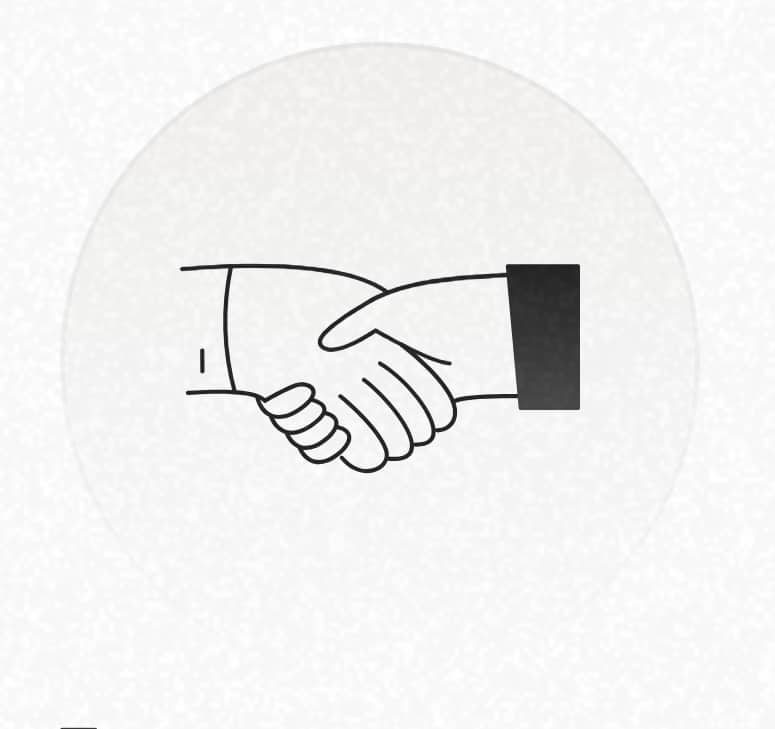
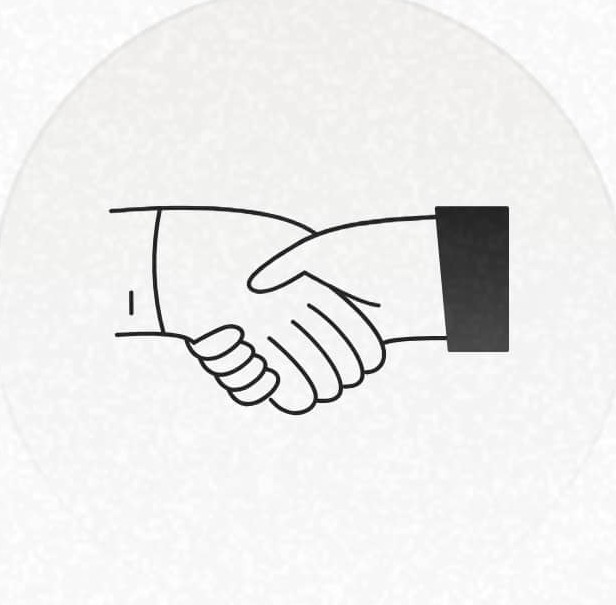
contact page updates

Changed region(s): [[0.1851, 0.3273, 0.8328, 0.6843], [0.0925, 0.9818, 0.1234, 1.0]]

diff --git a/src/components/Contact.tsx b/src/components/Contact.tsx
@@ -1,35 +1,48 @@
+"use client";
 import React from 'react';
-import { FaEnvelope } from "react-icons/fa";
+import { FaEnvelope, FaLinkedin } from "react-icons/fa";
 import Footer from './Footer';
-import handShake from '../../public/handShake.jpeg';
+import handShake from '../../public/image (1).jpg';
 import Image from 'next/image';
 
 export default function ContactSection() {
+  const email = "pavannaik0203@gmail.com"; // Replace with your actual email
+  const linkedInUrl = "https://www.linkedin.com/in/pavan-rathod-0203k/"; 
+
   return (
     <div className="flex flex-col min-h-screen">
-      <div className="flex-1 flex flex-col items-center justify-center text-center px-4">
+      <div className="flex-1 flex flex-col items-center justify-center text-center px-4 py-8">
         <div className="mb-6 flex flex-col items-center">
           {/* Image Circle */}
-          <div className="w-35 h-35 flex items-center justify-center rounded-full bg-gray-200 mb-4 overflow-hidden">
+          <div className="w-32 h-32 md:w-36 md:h-36 flex items-center justify-center rounded-full bg-gray-200 mb-4 overflow-hidden">
             <Image
               src={handShake} 
               alt="Handshake" 
-              width={200}
-              height={100}
+              width={144}
+              height={144}
               className="object-cover rounded-full"
             />
           </div>
-          <h2 className="text-4xl font-bold text-gray-800">
+          <h2 className="text-2xl md:text-4xl font-bold text-gray-800">
             Open to <span className="text-gray-500">new opportunities!</span>
           </h2>
-          <h2 className="text-4xl font-bold text-gray-800">Let’s connect.</h2>
+          <h2 className="text-2xl md:text-4xl font-bold text-gray-800">Let’s connect.</h2>
         </div>
-        <div className="flex gap-4">
-          <button className="flex items-center gap-2 px-6 py-3 bg-black text-white rounded-full shadow-md hover:bg-gray-800">
+        <div className="flex flex-row gap-4 w-full max-w-xs">
+          {/* Email Button */}
+          <button 
+            onClick={() => window.location.href = `mailto:${email}`} 
+            className="flex items-center justify-center gap-2 px-6 py-3 w-full bg-black text-white rounded-full shadow-md hover:bg-gray-800"
+          >
             <FaEnvelope /> Email Me
           </button>
-          <button className="px-6 py-3 border border-gray-400 text-gray-700 rounded-full shadow-md hover:bg-gray-200">
-            WhatsApp
+          
+          {/* LinkedIn Button */}
+          <button 
+            onClick={() => window.open(linkedInUrl, "_blank")} 
+            className="flex items-center justify-center gap-2 px-6 py-3 w-full border border-gray-400 text-gray-700 rounded-full shadow-md hover:bg-gray-200"
+          >
+            <FaLinkedin /> LinkedIn
           </button>
         </div>
       </div>

diff --git a/src/components/Footer.tsx b/src/components/Footer.tsx
@@ -2,14 +2,15 @@ import React from 'react';
 
 export default function Footer() {
   return (
-    <div className="p-2 w-full flex flex-col items-center text-gray-500 text-sm">
-      <p>&copy; 2025 All rights reserved.</p>
-      <div className="mt-2 space-x-4">
-        <a href="#" className="hover:underline">LinkedIn</a>
-        <span>/</span>
-        <a href="#" className="hover:underline">GitHub</a>
-        <span>/</span>
-        <a href="#" className="hover:underline">Instagram</a>
+    <div className="p-10">
+      <div className="w-full border-t border-gray-300 flex flex-row md:flex-row justify-between items-center text-gray-500 text-sm text-center md:text-left">
+        {/* Left-aligned text */}
+        <p className="font-semibold md:mb-0 text-xs md:text-sm">&copy; 2025 All rights reserved.</p>
+
+        {/* Right-aligned social links */}
+        <div className="font-semibold">
+          <a href="mailto:pavannaik0203@gmail.com" className="hover:underline text-xs md:text-sm">pavannaik0203@gmail.com</a>
+        </div>
       </div>
     </div>
   );
